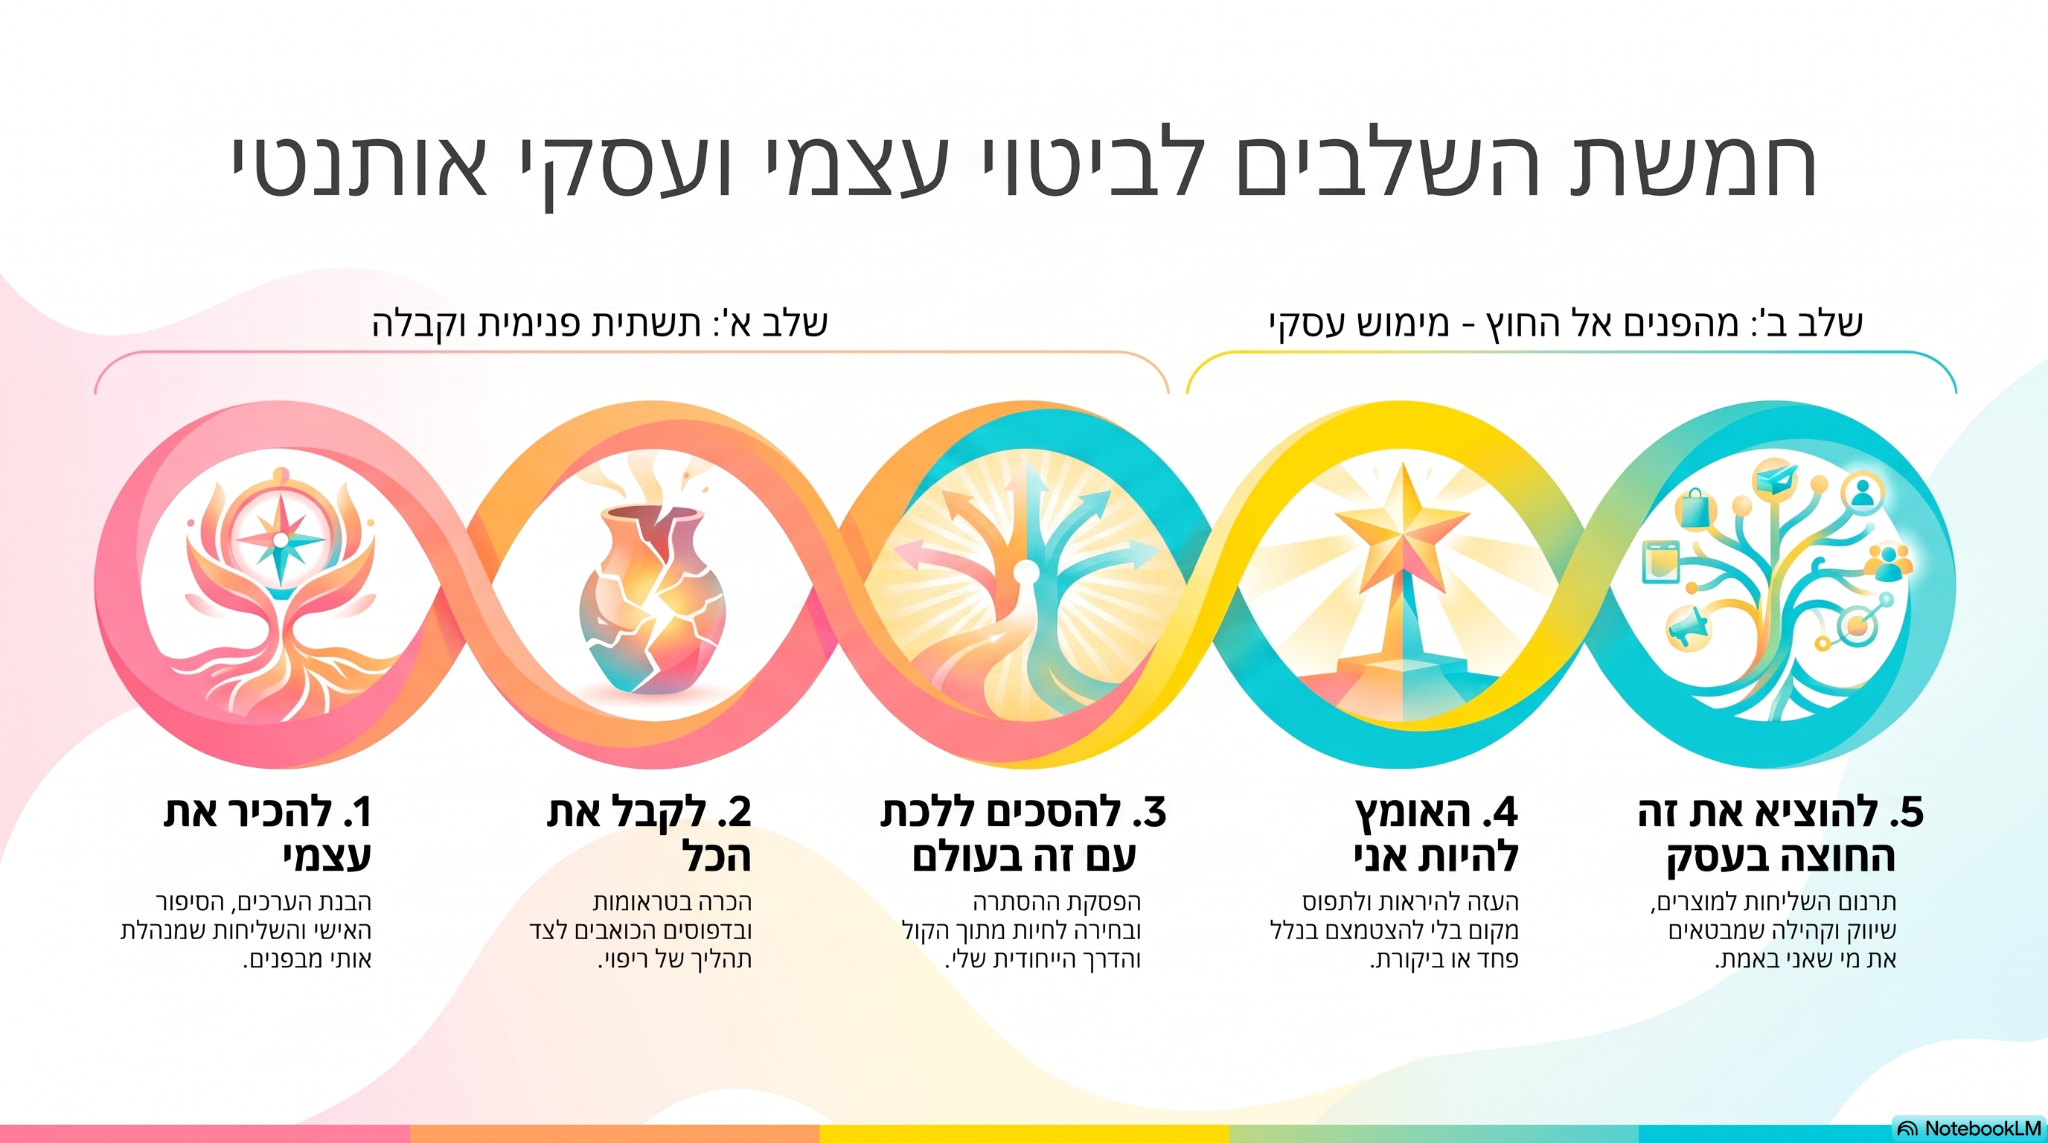
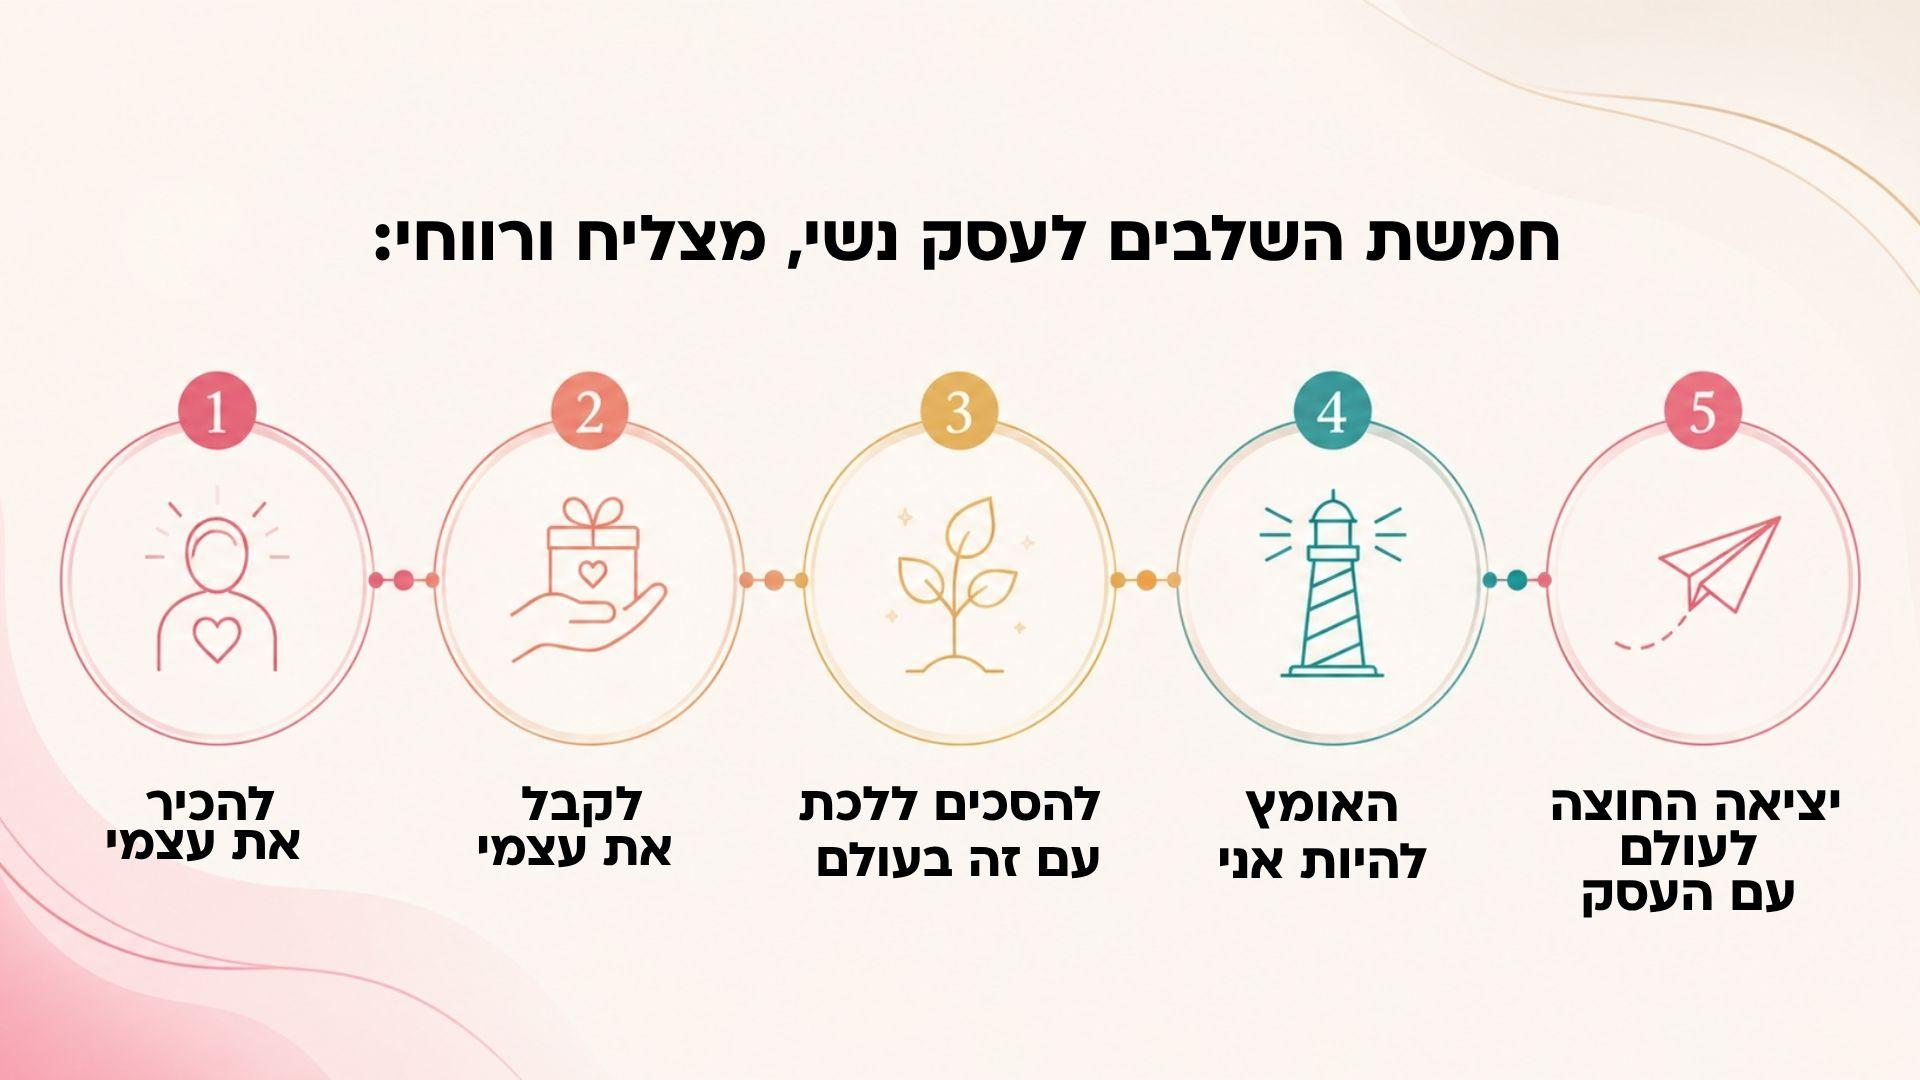
Round 2 feedback: reorder sections, circle photos, redesign axis cards, early-bird pricing, requirement cards, shrink testimonials, new mid-page CTA

diff --git a/index.html b/index.html
@@ -111,7 +111,7 @@ p{margin:0 0 14px;}
   background-image:url('assets/hero-watercolor.jpg');background-size:cover;background-position:top center;background-repeat:no-repeat;
 }
 .hero-grid{display:grid;grid-template-columns:1.15fr .85fr;gap:clamp(28px,5vw,60px);align-items:center;}
-@media (max-width:900px){.hero-grid{grid-template-columns:1fr;}}
+@media (max-width:900px){.hero-grid{grid-template-columns:1fr;}.hero-visual{order:-1;margin-bottom:12px;}}
 .hero h1{margin-bottom:18px;}
 .hero h1 em{font-style:normal;color:var(--coral);position:relative;white-space:nowrap;}
 .wave-text{display:inline-block;cursor:pointer;}
@@ -126,8 +126,8 @@ p{margin:0 0 14px;}
 
 .hero-visual{position:relative;}
 .hero-photo-frame{
-  border-radius:var(--radius-lg);overflow:hidden;box-shadow:var(--shadow-md);
-  border:6px solid #fff;aspect-ratio:4/5;max-width:340px;margin-inline-start:auto;position:relative;z-index:2;
+  border-radius:50%;overflow:hidden;box-shadow:var(--shadow-md);
+  border:6px solid #fff;aspect-ratio:1/1;max-width:320px;margin-inline-start:auto;position:relative;z-index:2;
 }
 .hero-photo-frame img{width:100%;height:100%;object-fit:cover;}
 .quote-float{
@@ -231,13 +231,18 @@ p{margin:0 0 14px;}
 .price-band .amount{flex:1 1 180px;min-width:0;font-family:'Heebo',sans-serif;font-size:clamp(24px,4vw,34px);font-weight:900;color:var(--peach);}
 .price-band .amount span{font-size:15px;color:rgba(255,255,255,.7);font-weight:500;display:block;margin-bottom:4px;}
 .price-band .btn{flex:1 1 200px;}
+.require-grid{display:grid;grid-template-columns:repeat(3,1fr);gap:14px;margin-top:22px;}
+@media (max-width:700px){.require-grid{grid-template-columns:1fr;}}
+.require-card{background:#fff;border:1px solid var(--line);border-radius:var(--radius);padding:20px 16px;text-align:center;box-shadow:var(--shadow-sm);}
+.require-card .ico{display:block;font-size:26px;margin-bottom:10px;}
+.require-card p{margin:0;font-size:14px;color:var(--ink-soft);font-weight:600;}
 
 /* practice 4 axes */
 .axis-grid{display:grid;grid-template-columns:repeat(4,1fr);gap:16px;margin-top:30px;}
 @media (max-width:900px){.axis-grid{grid-template-columns:1fr 1fr;}}
 @media (max-width:520px){.axis-grid{grid-template-columns:1fr;}}
-.axis-card{background:#fff;border-radius:var(--radius);padding:22px 20px;box-shadow:var(--shadow-sm);border:1px solid var(--line);}
-.axis-num{font-family:'Heebo',sans-serif;font-weight:900;font-size:28px;color:var(--peach);-webkit-text-stroke:1.5px var(--coral);}
+.axis-card{background:#fff;border-radius:var(--radius);padding:44px 20px 24px;box-shadow:var(--shadow-sm);border:1px solid var(--line);position:relative;}
+.axis-num{position:absolute;top:16px;right:18px;font-family:'Heebo',sans-serif;font-weight:900;font-size:30px;color:var(--coral);}
 .axis-card h4{font-family:'Heebo',sans-serif;font-weight:800;font-size:16.5px;margin:8px 0 8px;}
 .axis-card p{font-size:15px;color:var(--ink-soft);margin:0;}
 
@@ -264,14 +269,14 @@ p{margin:0 0 14px;}
 .scroll-row::-webkit-scrollbar-thumb{background:var(--line);border-radius:10px;}
 .video-frame{position:relative;border-radius:var(--radius);overflow:hidden;box-shadow:var(--shadow-sm);border:1px solid var(--line);background:#000;padding-top:56.25%;}
 .video-frame iframe{position:absolute;inset:0;width:100%;height:100%;border:0;}
-.scroll-row > .video-frame{flex:0 0 300px;scroll-snap-align:start;}
-.video-testi{flex:0 0 300px;scroll-snap-align:start;}
-.video-testi-name{margin:10px 0 0;text-align:center;font-size:13.5px;color:var(--ink-soft);}
+.scroll-row > .video-frame{flex:0 0 220px;scroll-snap-align:start;}
+.video-testi{flex:0 0 220px;scroll-snap-align:start;}
+.video-testi-name{margin:8px 0 0;text-align:center;font-size:13px;color:var(--ink-soft);}
 .video-testi-name b{color:var(--coral-deep);}
-@media (max-width:560px){.scroll-row > .video-frame,.video-testi{flex:0 0 82vw;}}
+@media (max-width:560px){.scroll-row > .video-frame,.video-testi{flex:0 0 62vw;}}
 /* vertical testimonial marquee columns */
-.testi-columns{display:flex;justify-content:center;gap:20px;margin-top:16px;max-height:640px;overflow:hidden;-webkit-mask-image:linear-gradient(to bottom,transparent,#000 12%,#000 88%,transparent);mask-image:linear-gradient(to bottom,transparent,#000 12%,#000 88%,transparent);}
-.testi-col{flex:1 1 0;max-width:230px;overflow:hidden;}
+.testi-columns{display:flex;justify-content:center;gap:16px;margin-top:14px;max-height:380px;overflow:hidden;-webkit-mask-image:linear-gradient(to bottom,transparent,#000 12%,#000 88%,transparent);mask-image:linear-gradient(to bottom,transparent,#000 12%,#000 88%,transparent);}
+.testi-col{flex:1 1 0;max-width:170px;overflow:hidden;}
 .testi-col:nth-child(2),.testi-col:nth-child(3){display:none;}
 @media (min-width:640px){.testi-col:nth-child(2){display:block;}}
 @media (min-width:900px){.testi-col:nth-child(3){display:block;}}
@@ -285,7 +290,7 @@ p{margin:0 0 14px;}
 /* bio */
 .bio-wrap{display:grid;grid-template-columns:.75fr 1.25fr;gap:clamp(24px,5vw,50px);align-items:start;margin-top:20px;}
 @media (max-width:800px){.bio-wrap{grid-template-columns:1fr;}}
-.bio-photo{border-radius:var(--radius-lg);overflow:hidden;box-shadow:var(--shadow-md);aspect-ratio:4/5;border:6px solid #fff;max-width:320px;margin-inline:auto;}
+.bio-photo{border-radius:50%;overflow:hidden;box-shadow:var(--shadow-md);aspect-ratio:1/1;border:6px solid #fff;max-width:300px;margin-inline:auto;}
 .bio-photo img{width:100%;height:100%;object-fit:cover;}
 .bio-creds{display:flex;flex-wrap:wrap;gap:8px;margin-top:20px;}
 .cred{background:var(--teal-tint);color:#0E5652;border-radius:100px;padding:7px 16px;font-size:13px;font-weight:600;}
@@ -338,7 +343,7 @@ footer .fine{font-size:13px;color:var(--ink-soft);margin-top:24px;}
     <div>
       <span class="eyebrow">הכשרת מטפלות עסקיות · מחזור 1</span>
       <h1 class="h1"><span class="wave-text" id="hero-wave">נמאס לך לעבוד קשה<br><em>בשביל כלום כסף לשעה?</em></span></h1>
-      <p class="lead">הכשרת מטפלות עסקיות בשיטת Inside Out - השיטה שמחברת עבודה רגשית-תודעתית עמוקה עם ליווי עסקי מעשי, כדי שתדעי לא רק ללוות נשים לשינוי אמיתי - אלא גם לחיות מהמקצוע בכבוד.</p>
+      <p class="lead"><strong>חיבור בין עולם פנימי לתוצאה עסקית.</strong> הכשרת מטפלות עסקיות בשיטת Inside Out - השיטה שמחברת עבודה רגשית-תודעתית עמוקה עם ליווי עסקי מעשי, כדי שתדעי לא רק ללוות נשים לשינוי אמיתי - אלא גם לחיות מהמקצוע בכבוד.</p>
       <div class="stat-bar">
         <div class="stat">
           <span class="ico"><svg width="18" height="18" viewBox="0 0 24 24" fill="none"><path d="M12 21s7-6.1 7-11.5A7 7 0 0 0 5 9.5C5 14.9 12 21 12 21Z" stroke="currentColor" stroke-width="1.8" stroke-linejoin="round"/><circle cx="12" cy="9.5" r="2.4" stroke="currentColor" stroke-width="1.8"/></svg></span>
@@ -372,16 +377,6 @@ footer .fine{font-size:13px;color:var(--ink-soft);margin-top:24px;}
   </div>
 </header>
 
-<!-- INTRO VIDEO -->
-<section class="reveal" style="padding-top:0;">
-  <div class="container-narrow">
-    <p style="text-align:center;font-family:'Heebo',sans-serif;font-weight:700;font-size:16.5px;margin-bottom:16px;">רגע לפני שממשיכות, סרטון קצר על ההכשרה:</p>
-    <div class="video-frame" style="max-width:560px;margin:0 auto;">
-      <iframe src="https://player.vimeo.com/video/1184530587" allow="autoplay; fullscreen; picture-in-picture" allowfullscreen loading="lazy"></iframe>
-    </div>
-  </div>
-</section>
-
 <!-- PAIN -->
 <section class="reveal">
   <div class="container-narrow">
@@ -393,11 +388,11 @@ footer .fine{font-size:13px;color:var(--ink-soft);margin-top:24px;}
     <div class="pain-audience">
       <div class="pain-card">
         <span class="tag">את מעולם הטיפול, האימון והתודעה</span>
-        <p>את עושה עבודה רגשית מדהימה עם אנשים, אבל הלב שלך קורא לך לעבוד עם נשים עצמאיות ובעלות עסקים. את רוצה ללוות נשים להגשמה, להפצת השליחות שלהן ולהגדלת ההכנסות. חסרה לך השפה העסקית המדויקת, המודלים והכלים הפרקטיים כדי לתרגם את העומק שלך לתוצאות עסקיות אמיתיות.</p>
+        <p>את עושה עבודה רגשית מדהימה עם אנשים, אבל הלב שלך קורא לך לעבוד עם נשים עצמאיות ובעלות עסקים - וחסרה לך השפה העסקית שתתרגם את העומק שלך לתוצאות אמיתיות.</p>
       </div>
       <div class="pain-card">
         <span class="tag">מעולם הליווי והייעוץ העסקי</span>
-        <p>את נותנת ללקוחות שלך את האסטרטגיות הכי טובות, אבל רואה אותן שוב ושוב נתקעות ולא מיישמות, בגלל פחדים ואמונות מגבילות. את רוצה כלים טיפוליים ותודעתיים עמוקים כדי לפרק את החסמים האלה מהשורש.</p>
+        <p>את נותנת ללקוחות שלך את האסטרטגיות הכי טובות, אבל רואה אותן נתקעות שוב ושוב - ורוצה כלים טיפוליים עמוקים לפרק את החסמים מהשורש.</p>
       </div>
     </div>
     <p style="font-family:'Heebo',sans-serif;font-weight:700;text-align:center;margin-top:36px;">והאמת? זה משפיע ישירות גם על העסק שלך כרגע:</p>
@@ -432,29 +427,13 @@ footer .fine{font-size:13px;color:var(--ink-soft);margin-top:24px;}
   </div>
 </section>
 
-<!-- פילוסופיה -->
-<section class="reveal">
+<!-- INTRO VIDEO -->
+<section class="reveal" style="padding-top:0;">
   <div class="container-narrow">
-    <div class="section-head">
-      <span class="eyebrow">התפיסה שלי</span>
-      <h2 class="h2">זו לא עוד הכשרה מקצועית</h2>
-      <p class="lead">זו דרך חדשה להסתכל על עולם העסקים הנשי ב-2027.</p>
+    <p style="text-align:center;font-family:'Heebo',sans-serif;font-weight:700;font-size:16.5px;margin-bottom:16px;">רגע לפני שממשיכות, סרטון קצר על ההכשרה:</p>
+    <div class="video-frame" style="max-width:560px;margin:0 auto;">
+      <iframe src="https://player.vimeo.com/video/1184530587" allow="autoplay; fullscreen; picture-in-picture" allowfullscreen loading="lazy"></iframe>
     </div>
-    <p>רוב ההכשרות מלמדות אותך איך לבנות עסק. אני רוצה ללמד אותך איך להבין את <strong>האישה שמאחורי העסק.</strong></p>
-    <p>במשך שנים ליוויתי מאות בעלות עסקים מכל התחומים, וגיליתי שוב ושוב את אותו הדבר:</p>
-    <div class="negation">
-      <span class="no">הבעיה כמעט אף פעם לא הייתה השיווק. לא המחירים. לא התוכן. לא המכירות.</span>
-      <span>הבעיה הייתה עמוקה יותר - פחד להצליח, פחד להיכשל, חוסר ערך, ביקורת עצמית, טראומות, אמונות מגבילות, מערכת עצבים בהישרדות.</span>
-    </div>
-    <p style="font-weight:700;">וכשזה השתנה - גם העסק השתנה.</p>
-    <p style="font-family:'Heebo',sans-serif;font-weight:800;font-size:clamp(18px,2.4vw,22px);color:var(--coral-deep);line-height:1.45;">העולם לא צריך עוד יועצות עסקיות. הוא צריך נשות מקצוע שיודעות לראות את מה שמאחורי הקלעים:</p>
-    <ul class="point-list">
-      <li><span class="num">1</span>לזהות את השורש שמאחורי החסם העסקי.</li>
-      <li><span class="num">2</span>להבין למה אישה יודעת בדיוק מה לעשות, אבל לא מצליחה לעשות את זה.</li>
-      <li><span class="num">3</span>להחזיק מרחב טיפולי עמוק, מבלי לאבד את החיבור למציאות העסקית.</li>
-      <li><span class="num">4</span>לחבר בין תהליך רגשי לבין צעדים מעשיים שמקדמים את העסק.</li>
-      <li><span class="num">5</span>להוביל נשים לשינוי שנשאר איתן גם הרבה אחרי שהמפגש מסתיים.</li>
-    </ul>
   </div>
 </section>
 
@@ -477,7 +456,19 @@ footer .fine{font-size:13px;color:var(--ink-soft);margin-top:24px;}
     <p>כי מבחינתי, אי אפשר להפריד ביניהם. זו לא הכשרה שתלמדי רק עם הראש - זו הכשרה שתעברי עם כל מי שאת.</p>
     <p>במשך כשבעה חודשים תחווי בעצמך את התהליך שאת עתידה להוביל: תלמדי, תתרגלי, תתנסי, תקבלי משוב, תלווי נשים, ותבני לעצמך דרך מקצועית המבוססת על השיטה. רק מתוך החוויה האישית הזו תוכלי להפוך למטפלת עסקית שמובילה שינוי אמיתי.</p>
     <p style="font-weight:700;">בסיום ההכשרה לא תצאי רק עם ידע - תצאי עם שפה מקצועית, מתודולוגיה ברורה, ניסיון מעשי, כלים טיפוליים ועסקיים, והיכולת להוביל נשים מבפנים החוצה.</p>
-    <div class="infographic-wrap"><img src="assets/inside-out-steps.jpg" alt="5 השלבים לעסק מצליח בשיטת Inside Out"></div>
+    <div class="infographic-wrap"><img src="assets/inside-out-steps.jpg" alt="חמשת השלבים לעסק נשי, מצליח ורווחי"></div>
+  </div>
+</section>
+
+<!-- CTA אמצע דף -->
+<section class="reveal">
+  <div class="container-narrow">
+    <div class="final-cta">
+      <h2 class="h2">בואי לסלול לעצמך דרך חדשה - מבפנים החוצה</h2>
+      <p class="lead" style="margin-bottom:26px;">נשמח להכיר אותך. ההרשמה כרוכה בראיון קבלה קצר.</p>
+      <a class="btn btn-outline" href="https://wa.me/message/7DOKCXRTBY4UG1" target="_blank" rel="noopener">להרשמה ולתיאום ראיון קבלה</a>
+      <p style="margin-top:26px;color:rgba(255,255,255,.85);">מחכה לך בהתרגשות,<br><strong style="color:#fff;">שרה שרבאני</strong></p>
+    </div>
   </div>
 </section>
 
@@ -505,6 +496,67 @@ footer .fine{font-size:13px;color:var(--ink-soft);margin-top:24px;}
       </div>
     </div>
     <p style="text-align:center;margin-top:24px;font-family:'Heebo',sans-serif;font-weight:800;font-size:clamp(18px,2.4vw,22px);color:var(--coral-deep);">רק אחר כך יוצאות החוצה לעולם.</p>
+  </div>
+</section>
+
+<!-- פילוסופיה -->
+<section class="reveal">
+  <div class="container-narrow">
+    <div class="section-head">
+      <span class="eyebrow">התפיסה שלי</span>
+      <h2 class="h2">זו לא עוד הכשרה מקצועית</h2>
+      <p class="lead">זו דרך חדשה להסתכל על עולם העסקים הנשי ב-2027.</p>
+    </div>
+    <p>רוב ההכשרות מלמדות אותך איך לבנות עסק. אני רוצה ללמד אותך איך להבין את <strong>האישה שמאחורי העסק.</strong></p>
+    <p>במשך שנים ליוויתי מאות בעלות עסקים מכל התחומים, וגיליתי שוב ושוב את אותו הדבר:</p>
+    <div class="negation">
+      <span class="no">הבעיה כמעט אף פעם לא הייתה השיווק. לא המחירים. לא התוכן. לא המכירות.</span>
+      <span>הבעיה הייתה עמוקה יותר - פחד להצליח, פחד להיכשל, חוסר ערך, ביקורת עצמית, טראומות, אמונות מגבילות, מערכת עצבים בהישרדות.</span>
+    </div>
+    <p style="font-weight:700;">וכשזה השתנה - גם העסק השתנה.</p>
+    <p style="font-family:'Heebo',sans-serif;font-weight:800;font-size:clamp(18px,2.4vw,22px);color:var(--coral-deep);line-height:1.45;">העולם לא צריך עוד יועצות עסקיות. הוא צריך נשות מקצוע שיודעות לראות את מה שמאחורי הקלעים:</p>
+    <ul class="point-list">
+      <li><span class="num">1</span>לזהות את השורש שמאחורי החסם העסקי.</li>
+      <li><span class="num">2</span>להבין למה אישה יודעת בדיוק מה לעשות, אבל לא מצליחה לעשות את זה.</li>
+      <li><span class="num">3</span>להחזיק מרחב טיפולי עמוק, מבלי לאבד את החיבור למציאות העסקית.</li>
+      <li><span class="num">4</span>לחבר בין תהליך רגשי לבין צעדים מעשיים שמקדמים את העסק.</li>
+      <li><span class="num">5</span>להוביל נשים לשינוי שנשאר איתן גם הרבה אחרי שהמפגש מסתיים.</li>
+    </ul>
+  </div>
+</section>
+
+<!-- שיטת הלמידה -->
+<section class="reveal">
+  <div class="container-narrow">
+    <div class="section-head">
+      <span class="eyebrow teal">סמכות מקצועית</span>
+      <h2 class="h2">שיטת הלמידה בהכשרה</h2>
+      <p class="lead">חסם עסקי הוא כמעט תמיד אנרגיה תקועה - פחד, אמונה מגבילה, סיפור ישן שעדיין מנהל אותך מבפנים. אי אפשר לפרק אותו רק עם עוד תבנית שיווקית. לכן כל הקורס בנוי משני חלקים המשלימים זה את זה, כי לא ניתן להוביל אחרות למקום שעדיין לא עברנו בעצמנו.</p>
+    </div>
+    <div class="io-grid">
+      <div class="io-card">
+        <div class="io-tag">Inside</div>
+        <div class="io-sub">חלק ראשון</div>
+        <p>תעברי בעצמך את התהליך ותכירי לעומק את שיטת Inside Out.</p>
+        <ul>
+          <li>תעמיקי בהיכרות עם הזהות, הערכים והשליחות האישית של הלקוחה שלך</li>
+          <li>תלמדי לעבוד עם טראומות, פחדים, אמונות מגבילות ודפוסים שמנהלים אותנו</li>
+          <li>תחווי כלים טיפוליים מעולם התודעה, הוויסות הרגשי, המדיטציה והגוף</li>
+          <li>תעברי תהליך אישי שיחזק את הביטחון, הנוכחות והיכולת שלך להוביל אחרות</li>
+        </ul>
+      </div>
+      <div class="io-card out">
+        <div class="io-tag">Out</div>
+        <div class="io-sub">חלק שני</div>
+        <p>נתרגם את העבודה הפנימית לעולם העסקי, כך שתדעי ללוות נשים גם ברמה המקצועית.</p>
+        <ul>
+          <li>תלמדי לבנות תהליך ליווי עסקי שלם המבוסס על שיטת Inside Out</li>
+          <li>תפתחי יכולת לאבחן את מקור החסמים ולהתאים תהליך עסקי-שיווקי מדויק</li>
+          <li>נעמיק בשיווק, תמחור, מכירות, מיתוג ובניית תוכניות ליווי</li>
+          <li>תקבלי כלים מעשיים לבניית עסק יציב, המבוסס על מי שאת - לא על תבניות זרות</li>
+        </ul>
+      </div>
+    </div>
   </div>
 </section>
 
@@ -540,41 +592,6 @@ footer .fine{font-size:13px;color:var(--ink-soft);margin-top:24px;}
       <div class="story-photo"><img src="https://images.ravpages.co.il/xsite_resources/user_content/cp_new_production/00/54/e2/f5/0054e2f54c640fd0017d351bb30ad592/images/3710ba8aaeac1a5440b664b39d033031.jpg?rxc=1705555703" loading="lazy" alt="שרה שרבאני"></div>
       <div class="story-photo"><img src="https://images.ravpages.co.il/xsite_resources/user_content/cp_new_production/00/54/e2/f5/0054e2f54c640fd0017d351bb30ad592/images/ba7435dc651f7c5e8ab727d0d3ee5b4f.jpg?rxc=1705555703" loading="lazy" alt="שרה שרבאני"></div>
       <div class="story-photo"><img src="https://images.ravpages.co.il/xsite_resources/user_content/cp_new_production/00/54/e2/f5/0054e2f54c640fd0017d351bb30ad592/images/5326093868caa2281efc9a068fba80eb.jpg?rxc=1705555703" loading="lazy" alt="שרה שרבאני"></div>
-    </div>
-  </div>
-</section>
-
-<!-- שיטת הלמידה -->
-<section class="reveal">
-  <div class="container-narrow">
-    <div class="section-head">
-      <span class="eyebrow teal">סמכות מקצועית</span>
-      <h2 class="h2">שיטת הלמידה בהכשרה</h2>
-      <p class="lead">חסם עסקי הוא כמעט תמיד אנרגיה תקועה - פחד, אמונה מגבילה, סיפור ישן שעדיין מנהל אותך מבפנים. אי אפשר לפרק אותו רק עם עוד תבנית שיווקית. לכן כל הקורס בנוי משני חלקים המשלימים זה את זה, כי לא ניתן להוביל אחרות למקום שעדיין לא עברנו בעצמנו.</p>
-    </div>
-    <div class="io-grid">
-      <div class="io-card">
-        <div class="io-tag">Inside</div>
-        <div class="io-sub">חלק ראשון</div>
-        <p>תעברי בעצמך את התהליך ותכירי לעומק את שיטת Inside Out.</p>
-        <ul>
-          <li>תעמיקי בהיכרות עם הזהות, הערכים והשליחות האישית של הלקוחה שלך</li>
-          <li>תלמדי לעבוד עם טראומות, פחדים, אמונות מגבילות ודפוסים שמנהלים אותנו</li>
-          <li>תחווי כלים טיפוליים מעולם התודעה, הוויסות הרגשי, המדיטציה והגוף</li>
-          <li>תעברי תהליך אישי שיחזק את הביטחון, הנוכחות והיכולת שלך להוביל אחרות</li>
-        </ul>
-      </div>
-      <div class="io-card out">
-        <div class="io-tag">Out</div>
-        <div class="io-sub">חלק שני</div>
-        <p>נתרגם את העבודה הפנימית לעולם העסקי, כך שתדעי ללוות נשים גם ברמה המקצועית.</p>
-        <ul>
-          <li>תלמדי לבנות תהליך ליווי עסקי שלם המבוסס על שיטת Inside Out</li>
-          <li>תפתחי יכולת לאבחן את מקור החסמים ולהתאים תהליך עסקי-שיווקי מדויק</li>
-          <li>נעמיק בשיווק, תמחור, מכירות, מיתוג ובניית תוכניות ליווי</li>
-          <li>תקבלי כלים מעשיים לבניית עסק יציב, המבוסס על מי שאת - לא על תבניות זרות</li>
-        </ul>
-      </div>
     </div>
   </div>
 </section>
@@ -684,10 +701,15 @@ footer .fine{font-size:13px;color:var(--ink-soft);margin-top:24px;}
       <div class="detail-card"><div class="label">משך ההכשרה</div><div class="value">7 חודשים</div></div>
     </div>
     <div class="price-band">
-      <div class="amount"><span>ההשקעה שלך</span>18,400 ₪</div>
+      <div class="amount"><span>מחיר הרשמה מוקדמת עד 15.9</span>17,400 ₪<span style="display:block;margin-top:6px;font-size:12.5px;color:rgba(255,255,255,.55);font-weight:400;text-decoration:line-through;">לאחר מכן: 18,400 ₪</span></div>
       <a class="btn btn-wa" href="https://wa.me/message/7DOKCXRTBY4UG1" target="_blank" rel="noopener">לתיאום ראיון קבלה</a>
     </div>
-    <p style="text-align:center;margin-top:22px;font-size:15px;color:var(--ink-soft);">דרישות ההסמכה: הנחיית סדנת זום בכנס בוגרות ההכשרה, הנחיית מעגל נשים בריטריט, וליווי 3-4 מתאמנות בתשלום סמלי לצבירת ניסיון.</p>
+
+    <div class="require-grid">
+      <div class="require-card"><span class="ico">🎤</span><p>הנחיית סדנת זום בכנס בוגרות ההכשרה</p></div>
+      <div class="require-card"><span class="ico">🤝</span><p>הנחיית מעגל נשים בריטריט</p></div>
+      <div class="require-card"><span class="ico">💫</span><p>ליווי 3-4 מתאמנות בתשלום סמלי לצבירת ניסיון</p></div>
+    </div>
   </div>
 </section>
 
@@ -715,7 +737,7 @@ footer .fine{font-size:13px;color:var(--ink-soft);margin-top:24px;}
     <div class="axis-grid">
       <div class="axis-card"><div class="axis-num">01</div><h4>אני מול עצמי</h4><p>המסע הפנימי שלך - זהות, ערך עצמי, פחדים ואמונות שמעצבים את הדרך שבה את רואה את עצמך ואת העסק.</p></div>
       <div class="axis-card"><div class="axis-num">02</div><h4>אני מול העסק</h4><p>תרגום התהליך הפנימי לשפה עסקית - תשתית, מיתוג, תמחור ותוכניות ליווי שנובעים מתוך מי שאת.</p></div>
-      <div class="axis-card"><div class="axis-num">03</div><h4>אני מול המתאמנת</h4><p>פיתוח היכולת ללוות אחרת - איך מאבחנים, איך מחזיקים מרחב טיפולי, ואיך מובילים לשינוי אמיתי.</p></div>
+      <div class="axis-card"><div class="axis-num">03</div><h4>אני מול הלקוחה</h4><p>פיתוח היכולת ללוות אחרת - איך מאבחנים, איך מחזיקים מרחב טיפולי, ואיך מובילים לשינוי אמיתי.</p></div>
       <div class="axis-card"><div class="axis-num">04</div><h4>אני מול העולם</h4><p>יציאה החוצה עם השיטה - שיווק, נראות, בניית קהל וקהילה, וההופעה המקצועית שלך בעולם.</p></div>
     </div>
   </div>
@@ -750,8 +772,8 @@ footer .fine{font-size:13px;color:var(--ink-soft);margin-top:24px;}
 <section class="alt reveal">
   <div class="container-narrow">
     <div class="section-head center">
-      <h2 class="h2">ולא נשארת לבד אחרי שהמפגש נגמר</h2>
-      <p class="lead">מעבר לכיתה, יש לך איתי כל הדרך: מרחב לשאול, תיק כלים אישי, סטאז' מלווה, וקהילה שתישאר גם אחרי שהתעודה כבר תלויה על הקיר.</p>
+      <h2 class="h2">ואת לא נשארת לבד בין המפגשים</h2>
+      <p class="lead">מעבר לכיתה, יש לך איתי לאורך כל הדרך: אותי ואת צוות ההכשרה, מרחב לשאול, תיק כלים אישי, סטאז' מלווה, וקהילה שתישאר גם אחרי שהתעודה כבר תלויה על הקיר.</p>
     </div>
     <div class="support-grid">
       <div class="support-card"><span class="ico">💬</span><h4>קבוצת ליווי בוואטסאפ</h4><p>מרחב חי לאורך כל ההכשרה - שאלות, שיתופים, תרגולים ועדכונים, גם באמצע השבוע.</p></div>
@@ -765,7 +787,7 @@ footer .fine{font-size:13px;color:var(--ink-soft);margin-top:24px;}
 </section>
 
 <!-- וידאו עדויות -->
-<section class="reveal">
+<section class="reveal" style="padding-top:clamp(36px,5vw,56px);padding-bottom:clamp(36px,5vw,56px);">
   <div class="container">
     <div class="section-head center">
       <span class="eyebrow">עדויות</span>
@@ -899,7 +921,7 @@ footer .fine{font-size:13px;color:var(--ink-soft);margin-top:24px;}
     </details>
     <details class="faq">
       <summary>מה עלות ההכשרה ואילו אפשרויות תשלום יש?<span class="plus">+</span></summary>
-      <div class="faq-body">ההשקעה בהכשרה היא 18,400 ₪, וניתן לחלק אותה לאפשרויות תשלום נוחות. ההרשמה מותנית בראיון קבלה אישי והתאמה הדדית, כדי לשמור על קבוצה איכותית, מחויבת ועמוקה. פרטי התשלום המדויקים נמסרים באופן אישי במהלך הראיון - לתיאום, כתבי לנו בוואטסאפ המשרד.</div>
+      <div class="faq-body">ההשקעה בהכשרה היא 18,400 ₪, ובהרשמה מוקדמת עד ה-15.9 - 17,400 ₪. ניתן לחלק את הסכום לאפשרויות תשלום נוחות. ההרשמה מותנית בראיון קבלה אישי והתאמה הדדית, כדי לשמור על קבוצה איכותית, מחויבת ועמוקה. פרטי התשלום המדויקים נמסרים באופן אישי במהלך הראיון - לתיאום, כתבי לנו בוואטסאפ המשרד.</div>
     </details>
   </div>
 </section>